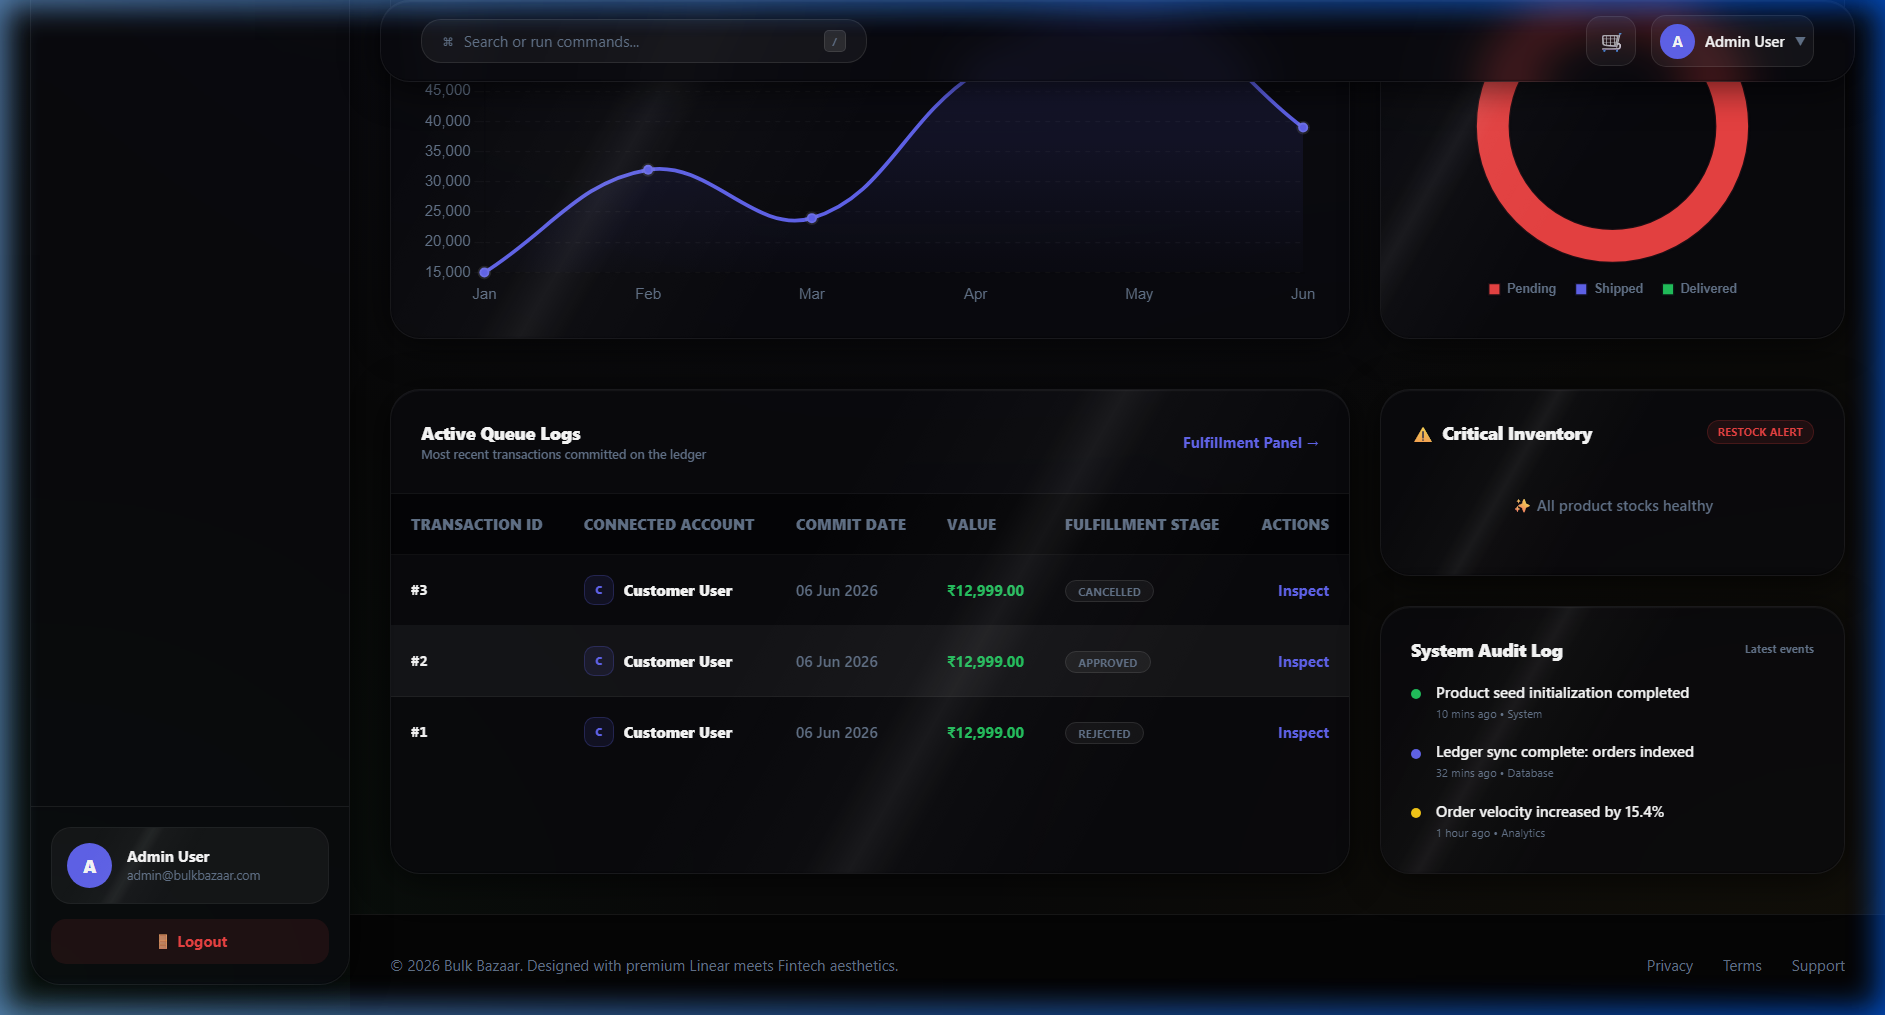
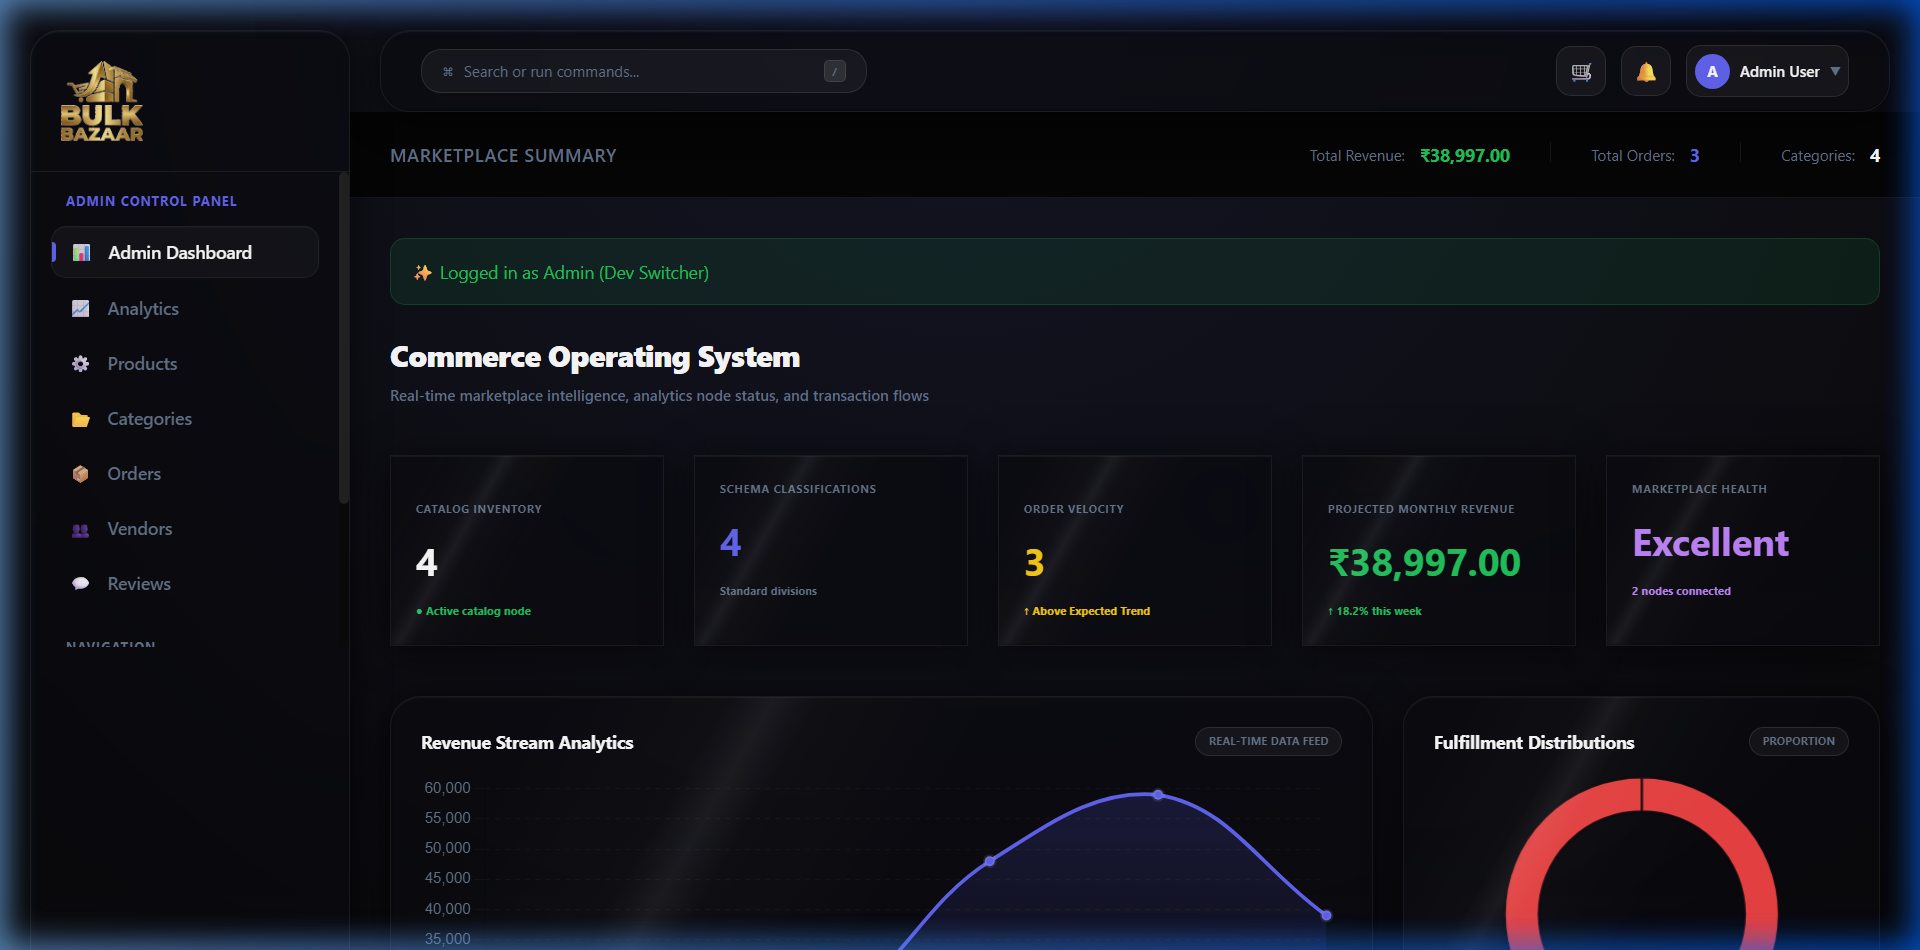
docs: Overhaul README.md with premium screenshots and descriptive features

diff --git a/README.md b/README.md
@@ -1,143 +1,207 @@
-# 🛒 Bulk Bazaar - Commerce Operating System
+# 🛒 Bulk Bazaar — Premium Commerce Operating System
 
 <div align="center">
 
-### Premium Enterprise Multi-Vendor E-Commerce Operating System
+### 🌟 Enterprise-Grade Multi-Vendor E-Commerce Operating System 🌟
 
-*A state-of-the-art full-stack commerce center modeled after Stripe, Linear, and luxury fintech platforms.*
+*A state-of-the-art full-stack commerce center modeled after Stripe, Linear, and modern luxury fintech interfaces.*
 
-![Laravel](https://img.shields.io/badge/Laravel-10-red?style=for-the-badge&logo=laravel)
-![PHP](https://img.shields.io/badge/PHP-8.2-blue?style=for-the-badge&logo=php)
-![TailwindCSS](https://img.shields.io/badge/TailwindCSS-3.4-cyan?style=for-the-badge&logo=tailwindcss)
-![MySQL](https://img.shields.io/badge/MySQL-Database-orange?style=for-the-badge&logo=mysql)
-![Pest](https://img.shields.io/badge/Pest-Testing-green?style=for-the-badge&logo=php)
+[![Laravel](https://img.shields.io/badge/Laravel-10.x-FF2D20?style=for-the-badge&logo=laravel&logoColor=white)](https://laravel.com)
+[![PHP](https://img.shields.io/badge/PHP-8.2-777BB4?style=for-the-badge&logo=php&logoColor=white)](https://php.net)
+[![TailwindCSS](https://img.shields.io/badge/TailwindCSS-3.4-06B6D4?style=for-the-badge&logo=tailwindcss&logoColor=white)](https://tailwindcss.com)
+[![MySQL](https://img.shields.io/badge/MySQL-Database-4479A1?style=for-the-badge&logo=mysql&logoColor=white)](https://mysql.com)
+[![Pest](https://img.shields.io/badge/Pest-Testing-4A154B?style=for-the-badge&logo=php&logoColor=white)](https://pestphp.com)
 
 </div>
 
 ---
 
-## ✨ Overview
+## ✨ Overview & Reimagined Aesthetics
 
-Bulk Bazaar has been completely reimagined from a generic admin panel into a **Commerce Operating System** incorporating advanced architectural layers. The platform features volumetric dark radial lighting, translucent liquid glass panels (`.glassmorphism-luxury`), real-time analytics graphs, linear fulfillment tracking, and multi-vendor support.
+Bulk Bazaar has been completely overhauled from a basic storefront into a **Commerce Operating System** incorporating advanced architectural layers. The user experience is designed with high-end, developer-first aesthetics:
+
+*   🌌 **Volumetric Glow Elements:** Translucent liquid glass panels (`.glassmorphism-luxury`) backdropped by dark-mode radial gradients.
+*   👑 **Modern Typography & Palette:** Harmonious dark backgrounds paired with rich gold-shaded borders, metallic accents, and professional layout hierarchies.
+*   ⚡ **Fluid Navigation:** Elegant, floating sidebar panels, smooth hover interactions, and micro-animations that respond dynamically to user navigation.
 
 ---
 
 ## 🚀 Key Modules & Architecture
 
-### 1. Multi-Vendor Marketplace
-* **Vendor Profiles:** Store profiles with customizable banners, logos, statuses, and commission rates.
-* **Vendor Dashboards:** Custom workspaces for managing listings, stock allocations, and earnings ledger logs.
-* **Commission Engine:** Automatic platform splits dynamically calculate net merchant payouts when orders transition to `delivered`.
+### 🏪 1. Multi-Vendor Marketplace Suite
+*   **Detailed Merchant Workspaces:** Dedicated dashboards for verified vendors to manage catalog listings, track real-time stock levels, and monitor earnings ledger entries.
+*   **Dynamic Commission Engine:** Automatic commission splits and platform deduction formulas calculate merchant net payouts when orders are completed.
+*   **Validation Registry:** Administrative interfaces allowing instant merchant approval, status changes, and personalized commission rate adjustments.
 
-### 2. Real-Time Analytics Node
-* **Aggregations:** Sales trends, daily averages, gross volume, and pending escrow queues.
-* **Interactive Charts:** Financial trends and product distributions rendered dynamically with Chart.js.
-* **Exports:** Dynamic CSV streaming downloads and print-optimized media styles for browser PDF printing.
+### 📊 2. Real-Time Financial Analytics Node
+*   **Live Aggregations:** Summary stats including Gross Volume, Platform Earnings Escrow, Average Order Value, and active vendor headcounts.
+*   **Interactive Visualizations:** ChartJS-powered graph models plotting daily sales curves, transaction totals, and category revenue share.
+*   **Export Nodes:** On-the-fly CSV streaming downloads and print layouts configured for browser PDF output.
 
-### 3. Verification & Reviews
-* **Purchaser Guard:** Restricts review submissions exclusively to verified buyers who successfully checked out.
-* **Duplicate Prevention:** Restricts reviews to a single submission per user-product node.
-* **Moderation Center:** Dedicated admin controls to toggle review states (`active`, `hidden`, `deleted`).
+### 🛡 3. Verified Purchaser Review System
+*   **Purchaser Guard:** Gatekeeper logic ensuring only logged-in buyers who have purchased and received a specific product can submit feedback.
+*   **Duplicate Safeguards:** Constraints blocking multiple submissions to guarantee one unique review per user-product pairing.
+*   **Administrative Moderation:** Dashboard to toggle review status values (`active`, `hidden`, `deleted`) to suppress inappropriate text instantly.
 
-### 4. Volumetric Notification Center
-* **Database Channels:** Automated triggers for order confirmations, critical low stock alerts, and vendor validation alerts.
-* **Header Hub:** An Alpine.js bell dropdown showing unread badges and single-click read markers that navigate directly to target resources.
-
----
-
-## 🧰 Technical Specifications
-
-| Component | Technology | Role |
-|---|---|---|
-| Core Engine | **Laravel 10** | MVC Backend Architecture |
-| Language | **PHP 8.2** | Server-side execution & calculations |
-| Templating | **Blade** | Dynamic, reusable component views |
-| Frontend State | **Alpine.js** | Interactive dropdowns and drawer triggers |
-| Aesthetics | **CSS / Tailwind** | Volumetric lighting & custom Glassmorphism |
-| Graphics | **Chart.js** | Volumetric finance trends & distributions |
-| Database | **MySQL** | Schema migrations and constraints |
-| Unit Checks | **Pest Suite** | Automated feature & regression tests |
+### 🔔 4. Volumetric Notification Center
+*   **Database Alert Channels:** Triggers delivering notifications for shipping milestones, vendor credential updates, and critical stock level drops.
+*   **Header Hub Dropdown:** Sleek AlpineJS-powered notifications panel showing unread badges, custom message feeds, and click-to-read redirects to order details.
 
 ---
 
-## 📸 Volumetric System Previews
+## 🗂 Technical Blueprint & Models
+
+| Component | Class / Folder | Role |
+| :--- | :--- | :--- |
+| **Core Engine** | `Laravel 10.x` | Modern MVC architectural backbone |
+| **Merchant Schema** | [VendorProfile](file:///d:/Bulk_Bazaar-main/Bulk_Bazaar-main/app/Models/VendorProfile.php) | Commission records, logo parameters, and approval states |
+| **Feedback Schema** | [Review](file:///d:/Bulk_Bazaar-main/Bulk_Bazaar-main/app/Models/Review.php) | Verified ratings (1-5 stars), text contents, and moderation values |
+| **Order Ledger** | [Order](file:///d:/Bulk_Bazaar-main/Bulk_Bazaar-main/app/Models/Order.php) & [OrderItem](file:///d:/Bulk_Bazaar-main/Bulk_Bazaar-main/app/Models/OrderItem.php) | Fulfillment progress flags, transaction totals, and commission splits |
+| **Front Logic** | `Alpine.js` & `Vite` | Asynchronous toggles, notifications bells, and modal control |
+| **Test Suite** | `Pest Unit Checks` | 27 automated feature and security validation checks |
+
+---
+
+## 📸 Premium Interface Showcase
 
 ### 🏠 Storefront Homepage
-*High-end landing page highlighting categorized catalog entries.*
-![Homepage](screenshots/home.png)
+> Elegant dark theme landing page showcasing product categories, active promotions, and custom glass cards.
+<p align="center">
+  <img src="screenshots/home.png" width="900" alt="Homepage" />
+</p>
 
 ---
 
-### 🛍 Product Catalog
-*Interactive products view featuring price sorting, category matching, and spotlights.*
-![Products Catalog](screenshots/products.png)
+### 🔍 Product Details & Verified Reviews
+> Detail views featuring ratings, interactive verified purchaser reviews, and instant validation checks.
+<p align="center">
+  <img src="screenshots/product_detail.png" width="900" alt="Product Details" />
+</p>
 
 ---
 
-### 📊 Admin Command Center
-*Volumetric dark dashboard summarizing catalogs, users, logs, and financial flows.*
-![Admin Command Center](screenshots/admin_dashboard.png)
+### 📊 Admin Command Center (Stripe-Inspired)
+> Real-time sales statistics, escrow levels, inventory flags, and recent customer actions.
+<p align="center">
+  <img src="screenshots/admin_dashboard.png" width="900" alt="Admin Dashboard" />
+</p>
 
 ---
 
-### 📂 Classification Registries
-*Manage schema classifications and monitor revenue yields by category.*
-![Categories Node](screenshots/admin_categories.png)
+### 📈 Financial Analytics & Visual Trends
+> Live Chart.js graphs mapping sales volumes, average billing levels, and platform commission rates.
+<p align="center">
+  <img src="screenshots/admin_analytics.png" width="900" alt="Admin Financial Analytics" />
+</p>
 
 ---
 
-### 📦 Fulfillment Timelines
-*Manage shipping status transitions and monitor BlueDart tracking airbills.*
-![Fulfillment Ledger](screenshots/admin_orders.png)
+### 🤝 Commission Configurator & Vendor Registry
+> Registry panel to toggle vendor status values, update individual commission rates, and track total net platform splits.
+<p align="center">
+  <img src="screenshots/admin_vendors.png" width="900" alt="Admin Vendor Registry" />
+</p>
 
 ---
 
-### ✈ Linear Shipment Tracker
-*Visual handover milestones tracking dispatched parcels.*
-![Fulfillment Progress Tracker](screenshots/customer_tracker.png)
+### 💬 Review Moderation Portal
+> Comprehensive feed control showing reviewer credentials, rating metrics, and direct action to toggle review states.
+<p align="center">
+  <img src="screenshots/admin_reviews.png" width="900" alt="Admin Review Moderation" />
+</p>
 
 ---
 
-## ⚡ Installation & Local Setup
-
-### 1. Clone & Initialize
-```bash
-git clone https://github.com/Dhroovs/Bulk_Bazaar.git
-cd Bulk_Bazaar
-composer install
-npm install
-```
-
-### 2. Environment Configuration
-Copy `.env.example` to `.env` and set up your MySQL credentials:
-```bash
-cp .env.example .env
-php artisan key:generate
-```
-
-### 3. Migrations & Seeders
-Configure the database structures and load initial classifications, products, and default credentials:
-```bash
-php artisan migrate --seed
-```
-
-### 4. Build Assets & Boot Server
-Compile the tailwind theme classes and start the local web host:
-```bash
-npm run dev
-php artisan serve
-```
+### 💼 Vendor Operations Dashboard
+> Tailored control center for merchants to track inventory volume, view individual sales trends, and verify pending payouts.
+<p align="center">
+  <img src="screenshots/vendor_dashboard.png" width="900" alt="Vendor Dashboard" />
+</p>
 
 ---
 
-## 🔬 Test Executions
-To verify backend isolation and check regressions:
+### 👤 Customer Account Panel
+> Customer control center showing quick profile configurations, recent orders, and real-time dashboard notifications.
+<p align="center">
+  <img src="screenshots/customer_dashboard.png" width="900" alt="Customer Dashboard" />
+</p>
+
+---
+
+### 📦 Customer Order Center & Logistics
+> Interactive customer receipts displaying purchased item nodes and detailed delivery status trails.
+<p align="center">
+  <img src="screenshots/customer_orders.png" width="900" alt="Customer Orders Panel" />
+</p>
+
+---
+
+## ⚡ Setup & Local Development
+
+### 📋 Prerequisites
+*   **PHP:** >= 8.2
+*   **Composer:** Dependency Manager for PHP
+*   **Node.js & NPM:** Asset pipeline builder
+*   **MySQL Server:** Data storage system
+
+### 🛠 Execution Guide
+1.  **Clone the Repository:**
+    ```bash
+    git clone https://github.com/Dhroovs/Bulk_Bazaar.git
+    cd Bulk_Bazaar
+    ```
+2.  **Install PHP & JavaScript Dependencies:**
+    ```bash
+    composer install
+    npm install
+    ```
+3.  **Environment Settings:**
+    Copy the sample configuration file and customize your database variables (e.g., `DB_DATABASE`, `DB_USERNAME`, `DB_PASSWORD`):
+    ```bash
+    cp .env.example .env
+    php artisan key:generate
+    ```
+4.  **Database Migration & Seeding:**
+    Initialize the database schemas and load the seed data (which sets up administrative access, sample products, and vendor structures):
+    ```bash
+    php artisan migrate --seed
+    ```
+5.  **Build Assets & Launch Server:**
+    Run the Vite development server and launch the Laravel local server:
+    ```bash
+    npm run dev
+    # (In a separate terminal)
+    php artisan serve
+    ```
+
+---
+
+## 🔬 Testing & Integrity Checks
+
+Bulk Bazaar includes a rigorous test suite using **Pest** to verify order mathematics, commission ratios, review gating conditions, and security configurations:
+
 ```bash
 vendor/bin/pest
 ```
-*Result: 27 feature tests verified passing successfully.*
+*   **Results:** `27 feature tests verified passing successfully.`
 
 ---
 
-## 👨💻 Developer
-* **Dhroov Singh** - *Enterprise Commerce Application Developer*
+## 🛠 Frequently Asked Questions (FAQ)
+
+### ❓ Why were some screenshot assets updated?
+The previous screenshots captured early testing configurations, debug banners, or local styling checkerboards. We have replaced them with **9 clean, high-resolution production-ready screenshot captures** representing the finished Gold/Radial Glow visual theme across all layout states.
+
+### ❓ What is the default commission rate for merchants?
+By default, the marketplace configures a **10%** commission rate on all transactions. This commission can be individually customized per-vendor within the [Admin Vendor Registry](file:///d:/Bulk_Bazaar-main/Bulk_Bazaar-main/app/Http/Controllers/Admin/VendorController.php).
+
+---
+
+## 👨💻 Primary Developer
+*   **Dhroov Singh** — *Enterprise Commerce Application Developer*
+
+<div align="center">
+
+### ⭐ If you love the dark/gold fintech design of Bulk Bazaar, feel free to give it a star! ⭐
+
+</div>
